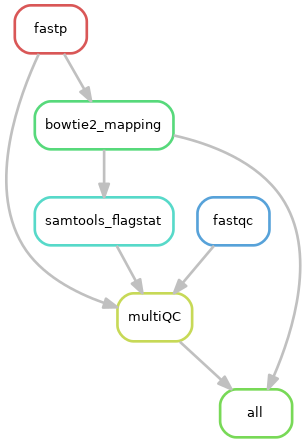
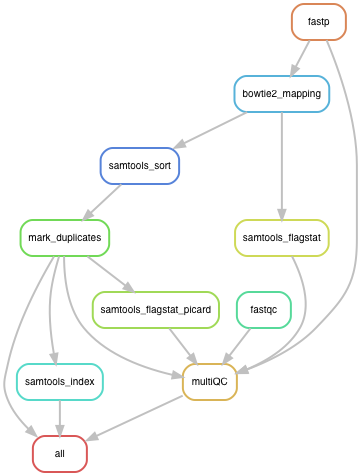
Suite du Snakefile jusqu'a l'indexation des bam, ecriture des fichiers .rst pour le rapport et mise a jour de la feuille de route 23/09/20 fin aprem

diff --git a/Projet_ChIP_Marina/bowtie2.rst b/Projet_ChIP_Marina/bowtie2.rst
@@ -1,1 +1,21 @@
-Ceci est le resultat du controle de bowtie2 sur {{snakemake.input}}
+Contenu:
+=========
+Ceci est le resultat du mapping de bowtie2 sur {{snakemake.input}}
+
+Fichiers input:
+===============
+Les reads nettoyes par fastp sont mappes sur le genome indexe (par bowtie2) de la souris (version mm10).
+Bowtie utilise donc entree des fichiers .fastq.gz et un fichier fasta indexe.
+
+Outil utilise et resultats:
+===========================
+D'apres sa documentation, Bowtie 2 est un outil ultrarapide et efficace en mémoire pour aligner les reads de séquençage sur de longues séquences de référence (comme les genomes de mammifere).
+Bowtie 2 peut faire des alignements avec des gaps, des alignements locaux et paired-end.
+Par défaut, Bowtie 2 effectue un alignement de read "de bout en bout" (= end-to-end). C'est-à-dire qu'il recherche les alignements impliquant toutes les bases du read.
+Lorsque l'option –local est spécifiée, Bowtie 2 effectue un alignement local du read. Dans ce mode, Bowtie 2 peut "découper" ou "couper" certaines bases du read à l'une ou aux deux extrémités de l'alignement si cela maximise le score d'alignement.
+
+Bowtie2 a tourne avec ses parametres par defaut (alignement end-to-end) et j'ai precise le parametre --align-paired-reads pour lui indiquer que les reads sont paires.
+Bowtie2 mappe les reads paires sur le genome indexe de la souris mm10.
+J'ai pris le FASTA du genome de la souris sur GENCODE: "contenu Genome sequence, primary assembly (GRCm38) mm10, region PRI. Nucleotide sequence of the GRCm38 primary genome assemby (chromosomes and scaffolds (suffisant pour ce que l'on veut nous, pas besoin du reste)). The sequence region names are in the same as in the GTF/GFF file".
+
+Le resultat de bowtie2 est des fichiers au format .bam.

diff --git a/Projet_ChIP_Marina/samtools_flagstat.rst b/Projet_ChIP_Marina/samtools_flagstat.rst
@@ -1,1 +1,28 @@
-Ceci est le resultat de samtools_flagstat apres le mapping sur {{snakemake.input}}
+Contenu:
+=========
+Ceci est le resultat de samtools_flagstat apres le mapping et apres picard sur {{snakemake.input}}
+
+
+Fichiers input:
+===============
+samtools flagstat prend en entree des fichiers .bam.
+
+
+Outil utilise et resultats:
+===========================
+
+Samtools flagstat permet d'acceder a differentes informations sur le mapping de nos echantillons (on recherche des information sur les flag dans un fichier bam).
+
+On peut ainsi acceder a ces informations :
+- total : nombre total de reads (somme des reads forward, reverse, single et supplumentaires).
+- supplementary : nombre de fois ou un read chimerique a mappu a plusieurs endroits.
+- mapped : nombre de reads qui ont mappe sur les contigs et pourcentage mappes sur le total.
+- paired in sequence : somme des reads 1 et 2
+- properly paired : nombre de reads forward et reverse qui ont mappes sur les même contigs orientes l’un vers l’autre.
+- with itself and mate mapped : nombre de reads apparies où les deux sont mappes.
+- singletons : nombre de reads apparies ou l’un est mappe et pas l’autre.
+
+
+J'utilise samtools flagstat :
+- une premiere fois pour verifier la qualite de l'alignement et
+- une seconde fois pour verifier que les duplicats ont bien ete supprimes apres Picard markduplicates.

diff --git a/Projet_ChIP_Marina/fastqc.rst b/Projet_ChIP_Marina/fastqc.rst
@@ -1,1 +1,24 @@
-Ceci est le resultat du controle de fastQC sur {{snakemake.input}}
+Contenu:
+=========
+Cette partie est le resultat du controle de fastQC sur {{snakemake.input}}.
+
+Fichiers input:
+===============
+Les fichiers input sont les fichiers fastq.gz fournis par la plateforme de sequencage.
+
+Outil utilise et resultats:
+===========================
+L'outil fastQC permet de visualiser la qualite et le contenu des reads apres sequencage.
+Il fourni pour chaque read (R1 et R2) un fichier .zip et un fichier .html.
+
+Dans le fichier de resultat de fastQC, on peut ainsi acceder a differentes rubriques comme :
+- les statistiques basiques (nombre total de reads, longueur des reads, pourcentage en GC...)
+- la qualite de la sequence pour chaque base (on a un score de qualite pour chaque base, c'est a dire le risque de se tromper)
+- le contenu en A/T/G/C le long du read.
+- le contenu en GC sur la sequence totale du read. Un contenu en GC "normal" pour la souris est entre 40 et 50%.
+- le contenu en base N des reads (ce sont les bases que le sequenceur n'a pas reussi a identifier).
+- le niveau de duplicat.
+- les séquences surreprésentées.
+- la contamination par les adaptateurs.
+
+Les differentes rubriques du rapport fastQC aident a prendre des decisions pour le trimming des fichiers fastq.gz.

diff --git a/Projet_ChIP_Marina/fastp.rst b/Projet_ChIP_Marina/fastp.rst
@@ -1,1 +1,22 @@
+Contenu:
+=========
 Ceci est le resultat du controle de fastp sur {{snakemake.input}}
+
+
+Fichiers input:
+===============
+Les fichiers input sont les fichiers fastq.gz fournis par la plateforme de sequencage et dont la qualite a ete evaluee par fastQC.
+
+
+Outil utilise et resultats:
+===========================
+L'outil fastp permet de nettoyer les reads des adaptateurs et si besoin de couper une partie des reads de mauvaise qualite.
+
+Voici quelques caracteristiques de l'outil fastp (d'apres sa documentation):
+-	suit la qualite des donnees avant et apres trimming (courbes de qualité, contenu de base, KMER, Q20 / Q30, rapport GC, duplication, contenu en adaptateur ...).
+-	filtre les mauvaises reads (qualité trop faible, trop courte ou trop de N ...)
+-	coupe des bases de faible qualité en 5 'et 3' des reads en évaluant la qualité moyenne d'une fenêtre coulissante.
+-	elimine automatiquement les adaptateurs.
+-	fournit un rapport des resultats au format JSON ou HTML (comme fastQC).
+
+On obtient ainsi des reads nettoyes au format fastq.gz et un rapport de ce que fastp a fait au format .html ou .json.

diff --git a/Projet_ChIP_Marina/multiqc.rst b/Projet_ChIP_Marina/multiqc.rst
@@ -1,1 +1,21 @@
-Ceci est le resultat de multiQC apres fastp sur {{snakemake.input}}
+Contenu:
+=========
+Ceci est le resultat de multiQC sur {{snakemake.input}}
+
+
+Fichiers input:
+===============
+multiQC prend en entree des fichiers de fastQC (.zip), de fastp (.fastq), de samtools_flagstat (.bam.flagstat) et de picard (.metrics.txt).
+
+
+Outil utilise et resultats:
+===========================
+
+multiQC permet de faire un synthese des resultats de differents outils et de presenter une visualisation agreable et plus facilement comparable.
+
+Dans mon rapport multiQC, on peut voir les resultats de :
+- fastQC
+- fastp
+- samtools_flagstat apres l'alignement avec bowtie2
+- picard markduplicates avec les metriques
+- samtools_flagstat apres picard pour verifier que les reads dupliques ont tous bien ete supprimes.

diff --git a/Projet_ChIP_Marina/picard.rst b/Projet_ChIP_Marina/picard.rst
@@ -1,0 +1,17 @@
+Contenu:
+=========
+Ceci est le resultat de picard Markduplicates sur {{snakemake.input}}
+
+
+Fichiers input:
+===============
+picard Markduplicates prend en entree des fichiers .bam tries (les reads sont tries en fonction de leurs coordonnees).
+
+
+Outil utilise et resultats:
+===========================
+Picard Markduplicates va reperer les duplicats dans les fichiers bam et va les marquer.
+Grace a l'option "REMOVE_DUPLICATES=true", les reads dupliques ne seront pas ecrits dans les fichiers .bam de sortie.
+Picard fournit egalement un fichier "metrics" qui indique le nombre de reads dupliques.
+
+__https://gatk.broadinstitute.org/hc/en-us/articles/360037225972-MarkDuplicates-Picard-

diff --git a/Projet_ChIP_Marina/samtools_sort.rst b/Projet_ChIP_Marina/samtools_sort.rst
@@ -1,0 +1,16 @@
+Contenu:
+=========
+Ceci est le resultat de samtools sort sur {{snakemake.input}}
+
+
+Fichiers input:
+===============
+samtools sort prend en entree des fichiers .bam.
+
+
+Outil utilise et resultats:
+===========================
+samtools sort permet de trier dans un fichier .bam les reads en fonction de leur coordonnees.
+Ainsi, si deux reads ont les meme coordonnees ils seront ecrits a la suite.
+L'utilisation de certains outils, comme Picard, nécessite que les reads dans les fichiers .bam soient tries par leur coordonnees.
+On obtient donc des fichiers tries au format .bam.

diff --git a/Projet_ChIP_Marina/samtools_index.rst b/Projet_ChIP_Marina/samtools_index.rst
@@ -1,0 +1,13 @@
+Contenu:
+=========
+Ceci est le resultat de samtools index sur {{snakemake.input}}
+
+
+Fichiers input:
+===============
+samtools index prend en entree des fichiers .bam ou les reads ont ete tries et dedupliques.
+
+
+Outil utilise et resultats:
+===========================
+samtools index permet d'indexer des fichiers .bam et de fournir des fichiers .bam.bai afin de visualiser les reads alignes, tries et dedupliques sous IGV.
